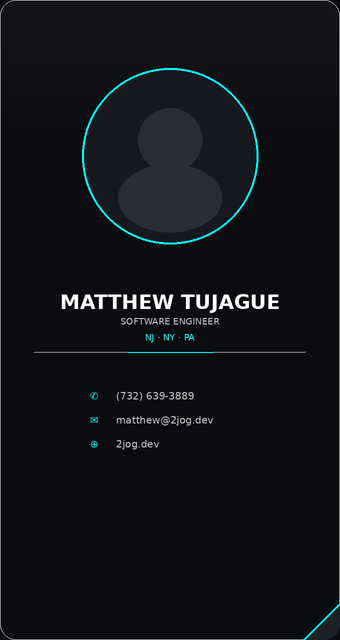
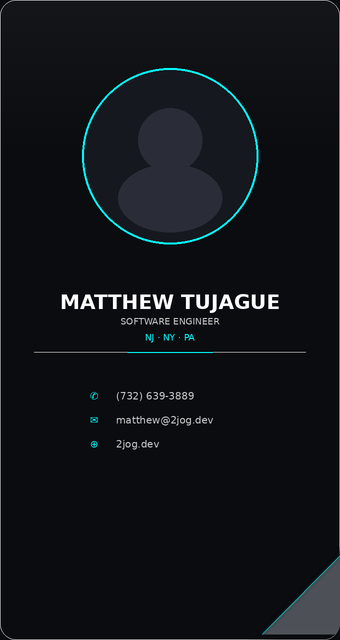
Increase dog-ear size and add peeling animation with shadow
Grows fold from 36px to 72px, replaces static triangle with animated
peel: flap lifts/scales with drop shadow + radial card shadow + cyan
crease glow. Mid-peel preview PNG updated.

https://claude.ai/code/session_01UtNpqUADcm8cyMnoSHNEyr

Changed region(s): [[0.7647, 0.8438, 1.0, 1.0]]

diff --git a/client/src/index.css b/client/src/index.css
@@ -407,48 +407,79 @@
   }
 }
 
-/* ── Dog-ear corner fold (bottom-right of bcard front) ── */
+/* ── Dog-ear peel corner (bottom-right of bcard front) ── */
 .bcard-dogear {
   position: absolute;
   bottom: 0;
   right: 0;
-  width: 36px;
-  height: 36px;
+  width: 72px;
+  height: 72px;
   pointer-events: none;
   user-select: none;
   z-index: 40;
 }
 
-/* The folded flap — a triangle via border trick */
-.bcard-dogear__flap {
-  position: absolute;
-  bottom: 0;
-  right: 0;
-  width: 0;
-  height: 0;
-  border-style: solid;
-  /* bottom-right triangle: transparent top-left sides, visible bottom-right */
-  border-width: 36px 36px 0 0;
-  border-color: transparent #1e2028 transparent transparent;
-  border-radius: 0 0 14px 0;
-  filter: drop-shadow(-2px -2px 3px rgba(0, 255, 255, 0.18));
-}
-
-/* Crease line along the fold diagonal */
+/* Shadow cast on the card surface by the lifting flap */
 .bcard-dogear__shadow {
   position: absolute;
-  bottom: 0;
-  right: 0;
-  width: 36px;
-  height: 36px;
+  inset: 0;
+  background: radial-gradient(
+    ellipse at 100% 100%,
+    rgba(0, 0, 0, 0.7) 0%,
+    rgba(0, 0, 0, 0.45) 35%,
+    rgba(0, 0, 0, 0.1) 60%,
+    transparent 75%
+  );
+  animation: bcard-peel-shadow 3.2s ease-in-out infinite;
+}
+
+/* The peeling flap — gradient simulates curl (lighter near free tip = back of card) */
+.bcard-dogear__flap {
+  position: absolute;
+  inset: 0;
+  clip-path: polygon(100% 0%, 100% 100%, 0% 100%);
+  background: linear-gradient(
+    315deg,
+    #4a4e63 0%,
+    #363949 22%,
+    #252830 45%,
+    #151719 100%
+  );
+  transform-origin: 0% 100%;
+  animation: bcard-peel-lift 3.2s ease-in-out infinite;
+  will-change: transform, filter;
+}
+
+/* Cyan crease glow along the fold line */
+.bcard-dogear__crease {
+  position: absolute;
+  inset: 0;
+  clip-path: polygon(100% 0%, 100% 100%, 0% 100%);
   background: linear-gradient(
     135deg,
-    transparent 40%,
-    rgba(0, 255, 255, 0.25) 50%,
-    rgba(0, 255, 255, 0.08) 55%,
-    transparent 65%
+    transparent 42%,
+    rgba(0, 255, 255, 0.5) 49%,
+    rgba(0, 255, 255, 0.15) 54%,
+    transparent 60%
   );
-  border-radius: 0 0 14px 0;
+  transform-origin: 0% 100%;
+  animation: bcard-peel-lift 3.2s ease-in-out infinite;
+}
+
+@keyframes bcard-peel-lift {
+  0%, 100% {
+    transform: translate(0px, 0px) scale(1);
+    filter: drop-shadow(-3px -3px 6px rgba(0, 0, 0, 0.6));
+  }
+  50% {
+    transform: translate(-6px, -6px) scale(1.18);
+    filter: drop-shadow(-8px -8px 14px rgba(0, 0, 0, 0.85));
+  }
+}
+
+@keyframes bcard-peel-shadow {
+  0%, 100% { opacity: 0.6;  transform: scale(1); }
+  50%       { opacity: 1;   transform: scale(1.18); }
 }
 
 @keyframes business-card-vim-cursor-blink {

diff --git a/client/src/components/BusinessCard.tsx b/client/src/components/BusinessCard.tsx
@@ -85,10 +85,11 @@ export default function BusinessCard({ isOpen = false }: BusinessCardProps) {
         >
           {/* Inner explicitly sized content to prevent layout squish */}
           <div className="w-[340px] h-full flex flex-col items-center px-10 py-10 relative">
-            {/* Dog-ear fold — bottom-right corner */}
+            {/* Dog-ear peel — bottom-right corner */}
             <div className="bcard-dogear" aria-hidden="true">
-              <div className="bcard-dogear__flap" />
               <div className="bcard-dogear__shadow" />
+              <div className="bcard-dogear__flap" />
+              <div className="bcard-dogear__crease" />
             </div>
             {/* Center Headshot */}
             <div className="flex flex-col items-center w-full z-10 relative mt-8">

diff --git a/scripts/generate-dogear-preview.py b/scripts/generate-dogear-preview.py
@@ -1,150 +1,172 @@
 """
-Generates preview/dogear-preview.png — a mockup of the bcard front
-face with the new dog-ear corner fold.
+Generates preview/dogear-preview.png — bcard front face with peeling
+dog-ear corner (rendered at mid-peel keyframe: scale 1.18, offset -6px).
 Run: python3 scripts/generate-dogear-preview.py
 """
 import os
-from PIL import Image, ImageDraw, ImageFont
+from PIL import Image, ImageDraw, ImageFont, ImageFilter
 
 OUT_DIR = os.path.join(os.path.dirname(__file__), "..", "preview")
 os.makedirs(OUT_DIR, exist_ok=True)
 OUT = os.path.join(OUT_DIR, "dogear-preview.png")
 
-SCALE = 2  # retina
-W, H = 340 * SCALE, 640 * SCALE
-R = 16 * SCALE       # card corner radius
-FOLD = 36 * SCALE    # dog-ear size
+SCALE = 2
+W, H   = 340 * SCALE, 640 * SCALE
+R      = 16 * SCALE
+FOLD   = 72 * SCALE   # matches CSS
 
-# Colors
 BG         = (11, 12, 16)
-FOLD_BG    = (30, 32, 40)
 CYAN       = (0, 255, 255)
-CYAN_DIM   = (0, 255, 255, 76)   # ~30% alpha
-CYAN_FAINT = (0, 255, 255, 20)
 WHITE      = (255, 255, 255)
 GRAY       = (200, 200, 200)
 HEADSHOT   = (22, 24, 31)
 SILHOUETTE = (42, 45, 56)
 
-
-def rgba(color, alpha):
-    return (*color[:3], alpha)
-
+# ── Helpers ────────────────────────────────────────────────────────────────────
+def centered_text(draw, y, text, font, color):
+    bb = draw.textbbox((0, 0), text, font=font)
+    x = (W - (bb[2] - bb[0])) // 2
+    draw.text((x, y), text, font=font, fill=color)
 
 # ── Base card ──────────────────────────────────────────────────────────────────
 img = Image.new("RGBA", (W, H), (0, 0, 0, 0))
-d = ImageDraw.Draw(img)
+d   = ImageDraw.Draw(img)
+d.rounded_rectangle([0, 0, W-1, H-1], radius=R,
+                    fill=(*BG, 255), outline=(*WHITE, 15))
 
-# Card background (rounded rect)
-d.rounded_rectangle([0, 0, W - 1, H - 1], radius=R, fill=(*BG, 255), outline=(*WHITE, 15))
-
-# ── Top shimmer ────────────────────────────────────────────────────────────────
+# Top shimmer
 shimmer = Image.new("RGBA", (W, H), (0, 0, 0, 0))
 sd = ImageDraw.Draw(shimmer)
 for y in range(160 * SCALE):
-    alpha = int(10 * (1 - y / (160 * SCALE)))
-    sd.line([(0, y), (W, y)], fill=(255, 255, 255, alpha))
+    a = int(10 * (1 - y / (160 * SCALE)))
+    sd.line([(0, y), (W, y)], fill=(255, 255, 255, a))
 img = Image.alpha_composite(img, shimmer)
-d = ImageDraw.Draw(img)
+d   = ImageDraw.Draw(img)
 
-# ── Headshot circle ────────────────────────────────────────────────────────────
-cx, cy, cr = W // 2, 156 * SCALE, 88 * SCALE
-# Fill
-d.ellipse([cx - cr, cy - cr, cx + cr, cy + cr], fill=(*HEADSHOT, 255))
-# Border
-d.ellipse([cx - cr, cy - cr, cx + cr, cy + cr],
-          outline=(*CYAN, 76), width=2 * SCALE)
-# Silhouette (head)
-d.ellipse([cx - 32*SCALE, cy - 48*SCALE, cx + 32*SCALE, cy + 16*SCALE],
-          fill=(*SILHOUETTE, 255))
-# Silhouette (shoulders)
-d.ellipse([cx - 52*SCALE, cy + 8*SCALE, cx + 52*SCALE, cy + 76*SCALE],
-          fill=(*SILHOUETTE, 255))
+# ── Headshot ───────────────────────────────────────────────────────────────────
+cx, cy, cr = W // 2, 156*SCALE, 88*SCALE
+d.ellipse([cx-cr, cy-cr, cx+cr, cy+cr], fill=(*HEADSHOT, 255))
+d.ellipse([cx-cr, cy-cr, cx+cr, cy+cr], outline=(*CYAN, 76), width=2*SCALE)
+d.ellipse([cx-32*SCALE, cy-48*SCALE, cx+32*SCALE, cy+16*SCALE], fill=(*SILHOUETTE, 255))
+d.ellipse([cx-52*SCALE, cy+8*SCALE,  cx+52*SCALE, cy+76*SCALE], fill=(*SILHOUETTE, 255))
 
-# ── Name ───────────────────────────────────────────────────────────────────────
+# ── Fonts ──────────────────────────────────────────────────────────────────────
 try:
-    font_name  = ImageFont.truetype("/usr/share/fonts/truetype/dejavu/DejaVuSans-Bold.ttf", 20 * SCALE)
-    font_title = ImageFont.truetype("/usr/share/fonts/truetype/dejavu/DejaVuSans.ttf", 9 * SCALE)
-    font_small = ImageFont.truetype("/usr/share/fonts/truetype/dejavu/DejaVuSans.ttf", 9 * SCALE)
-    font_contact = ImageFont.truetype("/usr/share/fonts/truetype/dejavu/DejaVuSans.ttf", 10 * SCALE)
+    fn  = ImageFont.truetype("/usr/share/fonts/truetype/dejavu/DejaVuSans-Bold.ttf", 20*SCALE)
+    ft  = ImageFont.truetype("/usr/share/fonts/truetype/dejavu/DejaVuSans.ttf",       9*SCALE)
+    fc  = ImageFont.truetype("/usr/share/fonts/truetype/dejavu/DejaVuSans.ttf",      10*SCALE)
 except Exception:
-    font_name = font_title = font_small = font_contact = ImageFont.load_default()
+    fn = ft = fc = ImageFont.load_default()
 
-name_y = 290 * SCALE
-bbox = d.textbbox((0, 0), "MATTHEW TUJAGUE", font=font_name)
-tw = bbox[2] - bbox[0]
-d.text(((W - tw) // 2, name_y), "MATTHEW TUJAGUE", font=font_name, fill=(*WHITE, 255))
+centered_text(d, 290*SCALE, "MATTHEW TUJAGUE",  fn, (*WHITE, 255))
+centered_text(d, 316*SCALE, "SOFTWARE ENGINEER", ft, (*GRAY,  255))
+centered_text(d, 332*SCALE, "NJ · NY · PA",      ft, (*CYAN,  200))
 
-title_y = 316 * SCALE
-bbox = d.textbbox((0, 0), "SOFTWARE ENGINEER", font=font_title)
-tw = bbox[2] - bbox[0]
-d.text(((W - tw) // 2, title_y), "SOFTWARE ENGINEER", font=font_title, fill=(*GRAY, 255))
-
-loc_y = 332 * SCALE
-bbox = d.textbbox((0, 0), "NJ · NY · PA", font=font_small)
-tw = bbox[2] - bbox[0]
-d.text(((W - tw) // 2, loc_y), "NJ · NY · PA", font=font_small, fill=(*CYAN, 200))
-
-# ── Divider ────────────────────────────────────────────────────────────────────
-div_y = 352 * SCALE
-div_x0, div_x1 = int(W * 0.1), int(W * 0.9)
-for i in range(div_x0, div_x1):
-    t = (i - div_x0) / (div_x1 - div_x0)
-    a = int(25 * (1 - abs(t - 0.5) * 2))
+# Divider
+div_y = 352*SCALE
+for i in range(int(W*0.1), int(W*0.9)):
+    t = (i - W*0.1) / (W*0.8)
+    a = int(25 * (1 - abs(t-0.5)*2))
     d.point((i, div_y), fill=(255, 255, 255, a))
-# Cyan accent center
-acc_x0, acc_x1 = int(W * 0.375), int(W * 0.625)
-d.line([(acc_x0, div_y), (acc_x1, div_y)], fill=(*CYAN, 230), width=SCALE)
+d.line([(int(W*0.375), div_y), (int(W*0.625), div_y)], fill=(*CYAN, 230), width=SCALE)
 
-# ── Contact rows ───────────────────────────────────────────────────────────────
-icon_x, text_x = 96 * SCALE, 116 * SCALE
-contacts = [
-    (396, "✆", "(732) 639-3889"),
-    (420, "✉", "matthew@2jog.dev"),
-    (444, "⊕", "2jog.dev"),
-]
-for row_y, icon, text in contacts:
-    ry = row_y * SCALE
-    d.text((icon_x - 6 * SCALE, ry - 6 * SCALE), icon, font=font_contact, fill=(*CYAN, 178))
-    d.text((text_x, ry - 6 * SCALE), text, font=font_contact, fill=(*GRAY, 255))
+# Contact
+for ry, icon, text in [(396, "✆", "(732) 639-3889"),
+                        (420, "✉", "matthew@2jog.dev"),
+                        (444, "⊕", "2jog.dev")]:
+    d.text((96*SCALE-6*SCALE, ry*SCALE-6*SCALE), icon, font=fc, fill=(*CYAN, 178))
+    d.text((116*SCALE,        ry*SCALE-6*SCALE), text, font=fc, fill=(*GRAY, 255))
 
-# ── Dog-ear fold ───────────────────────────────────────────────────────────────
-# Triangle: (W-FOLD, H), (W, H), (W, H-FOLD)
-fold_pts = [(W - FOLD, H), (W, H), (W, H - FOLD)]
+# ── Dog-ear peel — mid-peel frame (scale=1.18, offset=-6px each axis) ──────────
+# The 72px box sits at (W-FOLD, H-FOLD) in card coords.
+# Transform origin is the bottom-left of the box = (W-FOLD, H).
+# At mid-peel: scale 1.18 around origin, then translate (-6, -6) px.
+BX   = W - FOLD   # box origin x (card coords)
+BY   = H - FOLD   # box origin y (card coords)
+OX   = BX         # transform-origin x (bottom-left of box)
+OY   = H          # transform-origin y
 
-# Soft shadow under the fold — slightly larger, offset, blurred via alpha gradient
+PEEL_SCALE = 1.18
+PEEL_TX    = -6 * SCALE
+PEEL_TY    = -6 * SCALE
+
+def tp(lx, ly):
+    """Transform a box-local point through scale+translate."""
+    # scale from (OX, OY)
+    sx = OX + (BX + lx - OX) * PEEL_SCALE
+    sy = OY + (BY + ly - OY) * PEEL_SCALE
+    return (int(sx + PEEL_TX), int(sy + PEEL_TY))
+
+# Triangle vertices in box-local: top-right, bottom-right, bottom-left
+P_TR = tp(FOLD, 0)     # free tip — top-right of box (upper corner of fold)
+P_BR = tp(FOLD, FOLD)  # card bottom-right corner
+P_BL = tp(0,    FOLD)  # crease bottom (transform origin, won't move)
+
+flap_pts = [P_TR, P_BR, P_BL]
+
+# --- Shadow on card (radial, behind the flap) ---
 shadow_layer = Image.new("RGBA", (W, H), (0, 0, 0, 0))
-sd2 = ImageDraw.Draw(shadow_layer)
-for offset in range(6, 0, -1):
-    alpha = int(46 * (offset / 6) * 0.18)
+# Draw a blurred fan of triangles, darkest at corner
+for i in range(18, 0, -1):
+    expand = (18 - i) * SCALE // 2
+    alpha  = int(140 * (i / 18))
     pts = [
-        (W - FOLD - offset * SCALE, H),
-        (W, H),
-        (W, H - FOLD - offset * SCALE),
+        (BX - expand, H),
+        (W + expand,  H),
+        (W + expand,  BY - expand),
     ]
-    sd2.polygon(pts, fill=(*CYAN, alpha))
+    ImageDraw.Draw(shadow_layer).polygon(pts, fill=(0, 0, 0, alpha))
+shadow_layer = shadow_layer.filter(ImageFilter.GaussianBlur(radius=8*SCALE))
 img = Image.alpha_composite(img, shadow_layer)
-d = ImageDraw.Draw(img)
+d   = ImageDraw.Draw(img)
 
-# Flap triangle fill
-d.polygon(fold_pts, fill=(*FOLD_BG, 255))
+# --- Flap gradient (dark at crease, lighter toward free tip) ---
+flap_layer = Image.new("RGBA", (W, H), (0, 0, 0, 0))
+fl = ImageDraw.Draw(flap_layer)
+# Base — darkest at crease
+fl.polygon(flap_pts, fill=(21, 23, 25, 255))
+# Gradient strips from PBL toward the free edge (P_TR–P_BR)
+steps = 32
+for i in range(steps):
+    t = i / steps
+    # Interpolate vertices from PBL toward the opposite edge
+    e1x = int(P_BL[0] + t * (P_TR[0] - P_BL[0]))
+    e1y = int(P_BL[1] + t * (P_TR[1] - P_BL[1]))
+    e2x = int(P_BL[0] + t * (P_BR[0] - P_BL[0]))
+    e2y = int(P_BL[1] + t * (P_BR[1] - P_BL[1]))
+    # Brightness increases toward the free tip (t=1)
+    lv = int(21 + t * 55)
+    fl.polygon([P_BL, (e1x, e1y), (e2x, e2y)], fill=(lv+8, lv+10, lv+18, 255))
 
-# Crease line (diagonal from bottom-left of fold to top-right)
-d.line([(W - FOLD, H - 1), (W - 1, H - FOLD)],
-       fill=(*CYAN, 76), width=max(1, SCALE // 2))
+img = Image.alpha_composite(img, flap_layer)
+d   = ImageDraw.Draw(img)
 
-# Light crease glow (thicker, more transparent)
-d.line([(W - FOLD, H - 1), (W - 1, H - FOLD)],
-       fill=(*CYAN, 20), width=SCALE * 2)
+# --- Flap drop shadow (edge lift effect) ---
+shadow2 = Image.new("RGBA", (W, H), (0, 0, 0, 0))
+s2 = ImageDraw.Draw(shadow2)
+for offset in range(7, 0, -1):
+    o   = offset * SCALE // 3
+    pts = [(x - o, y - o) for x, y in flap_pts]
+    s2.polygon(pts, fill=(0, 0, 0, int(80 * offset / 7)))
+shadow2 = shadow2.filter(ImageFilter.GaussianBlur(radius=3*SCALE))
+img = Image.alpha_composite(img, shadow2)
+d   = ImageDraw.Draw(img)
 
-# ── Clip everything to rounded card ────────────────────────────────────────────
+# --- Crease glow (blurred cyan line along P_BL → P_TR) ---
+crease = Image.new("RGBA", (W, H), (0, 0, 0, 0))
+cd = ImageDraw.Draw(crease)
+cd.line([P_BL, P_TR], fill=(*CYAN, 130), width=SCALE*2)
+crease = crease.filter(ImageFilter.GaussianBlur(radius=SCALE*1.5))
+img = Image.alpha_composite(img, crease)
+d   = ImageDraw.Draw(img)
+# Hard bright crease line on top
+d.line([P_BL, P_TR], fill=(*CYAN, 160), width=max(1, SCALE//2))
+
+# ── Clip to rounded card + save ───────────────────────────────────────────────
 mask = Image.new("L", (W, H), 0)
-md = ImageDraw.Draw(mask)
-md.rounded_rectangle([0, 0, W - 1, H - 1], radius=R, fill=255)
+ImageDraw.Draw(mask).rounded_rectangle([0, 0, W-1, H-1], radius=R, fill=255)
 img.putalpha(mask)
 
-# ── Save ───────────────────────────────────────────────────────────────────────
-# Composite onto dark background for the final PNG (no transparency)
 bg = Image.new("RGB", (W, H), BG)
 bg.paste(img, mask=img.split()[3])
 bg = bg.resize((W // SCALE, H // SCALE), Image.LANCZOS)
